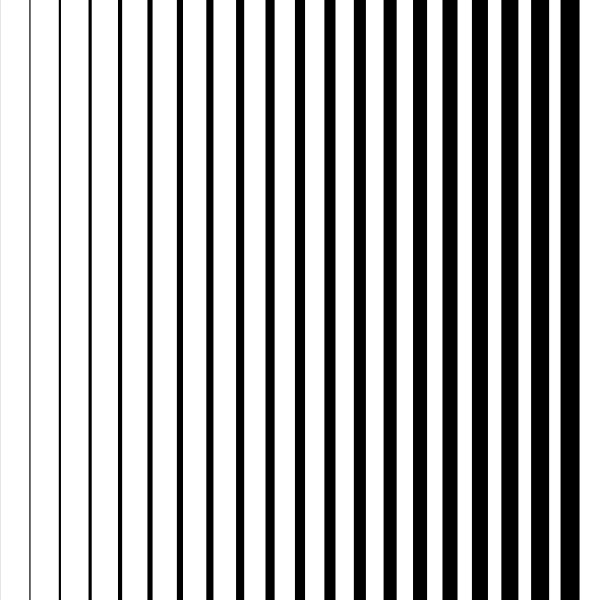
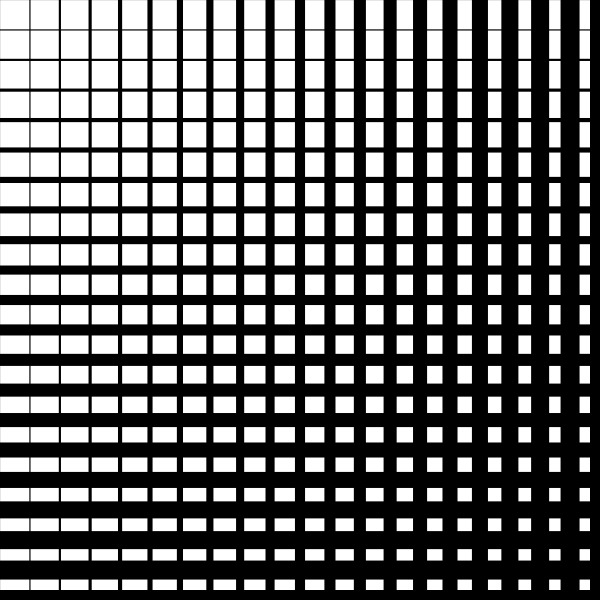
update

diff --git a/sketches/d03112025/index.html b/sketches/d03112025/index.html
@@ -1,0 +1,18 @@
+<!DOCTYPE html>
+<html lang="en">
+  <head>
+    <script src="https://cdnjs.cloudflare.com/ajax/libs/p5.js/1.10.0/p5.js"></script>
+    <!-- no internet? use the local version of p5 -->
+    <!-- <script src="../p5.js"></script> --> 
+    <!-- <script src="https://cdnjs.cloudflare.com/ajax/libs/p5.js/1.10.0/addons/p5.sound.min.js"></script> -->
+    <link rel="stylesheet" type="text/css" href="style.css">
+    <meta charset="utf-8" />
+
+  </head>
+  <body>
+    <main>
+    </main>
+    <script src="sketch.js"></script>
+  </body>
+</html>
+

diff --git a/sketches/d03142025/index.html b/sketches/d03142025/index.html
@@ -1,0 +1,18 @@
+<!DOCTYPE html>
+<html lang="en">
+  <head>
+    <script src="https://cdnjs.cloudflare.com/ajax/libs/p5.js/1.10.0/p5.js"></script>
+    <!-- no internet? use the local version of p5 -->
+    <!-- <script src="../p5.js"></script> --> 
+    <!-- <script src="https://cdnjs.cloudflare.com/ajax/libs/p5.js/1.10.0/addons/p5.sound.min.js"></script> -->
+    <link rel="stylesheet" type="text/css" href="style.css">
+    <meta charset="utf-8" />
+
+  </head>
+  <body>
+    <main>
+    </main>
+    <script src="sketch.js"></script>
+  </body>
+</html>
+

diff --git a/sketches/d03122025/sketch.js b/sketches/d03122025/sketch.js
@@ -1,23 +1,26 @@
 //speed run! playing catchup
 
 let count = 50;
-let hoffset;
+let hoffset, voffset;
 
 function setup() {
   createCanvas(800, 800);
   // createCanvas(windowWidth, windowHeight);
   
   hoffset = width/count;
+  voffset = width/count;
   
 }
 
 function draw() {
   background(255);
   
-  for(let i = 0; i < count; i++){
+  for(let i = 0; i < count + 1; i++){
     strokeWeight(map(i, 0, count, 0.1, 10));
     line(i * hoffset, 0, i * hoffset, height);
+    line(0, i * voffset, width, i*voffset);
   }
+
 }
 
 // function windowResized() {

diff --git a/sketches/d03142025/sketch.js b/sketches/d03142025/sketch.js
@@ -8,19 +8,20 @@ function setup() {
   // createCanvas(windowWidth, windowHeight);
   
   hoffset = width/count;
-  
+  voffset = height/count;
   noLoop();
 }
 
 function draw() {
   background(255);
   
-  for(let i = 0; i < count; i++){
+  for(let i = 0; i < count + 1; i++){
     
     let scaled = map(i, 0, count, 0, TWO_PI) 
     let a = cos(scaled);
     strokeWeight(map(a, -1, 1, 0.1, 10));
     line(i * hoffset, 0, i * hoffset, height);
+    line(0, i * voffset, width, i*voffset);
   }
 }
 

diff --git a/sketches/d03112025/sketch.js b/sketches/d03112025/sketch.js
@@ -9,17 +9,13 @@ function setup() {
   
   hoffset = width/count;
   
-  noLoop();
 }
 
 function draw() {
   background(255);
   
   for(let i = 0; i < count; i++){
-    
-    let scaled = map(i, 0, count, 0, TWO_PI) 
-    let a = cos(scaled);
-    strokeWeight(map(a, -1, 1, 0.1, 10));
+    strokeWeight(map(i, 0, count, 0.1, 10));
     line(i * hoffset, 0, i * hoffset, height);
   }
 }

diff --git a/sketches/d03112025/style.css b/sketches/d03112025/style.css
@@ -1,0 +1,3 @@
+body {
+  margin: 0px;
+}

diff --git a/sketches/d03142025/style.css b/sketches/d03142025/style.css
@@ -1,0 +1,3 @@
+body {
+  margin: 0px;
+}
